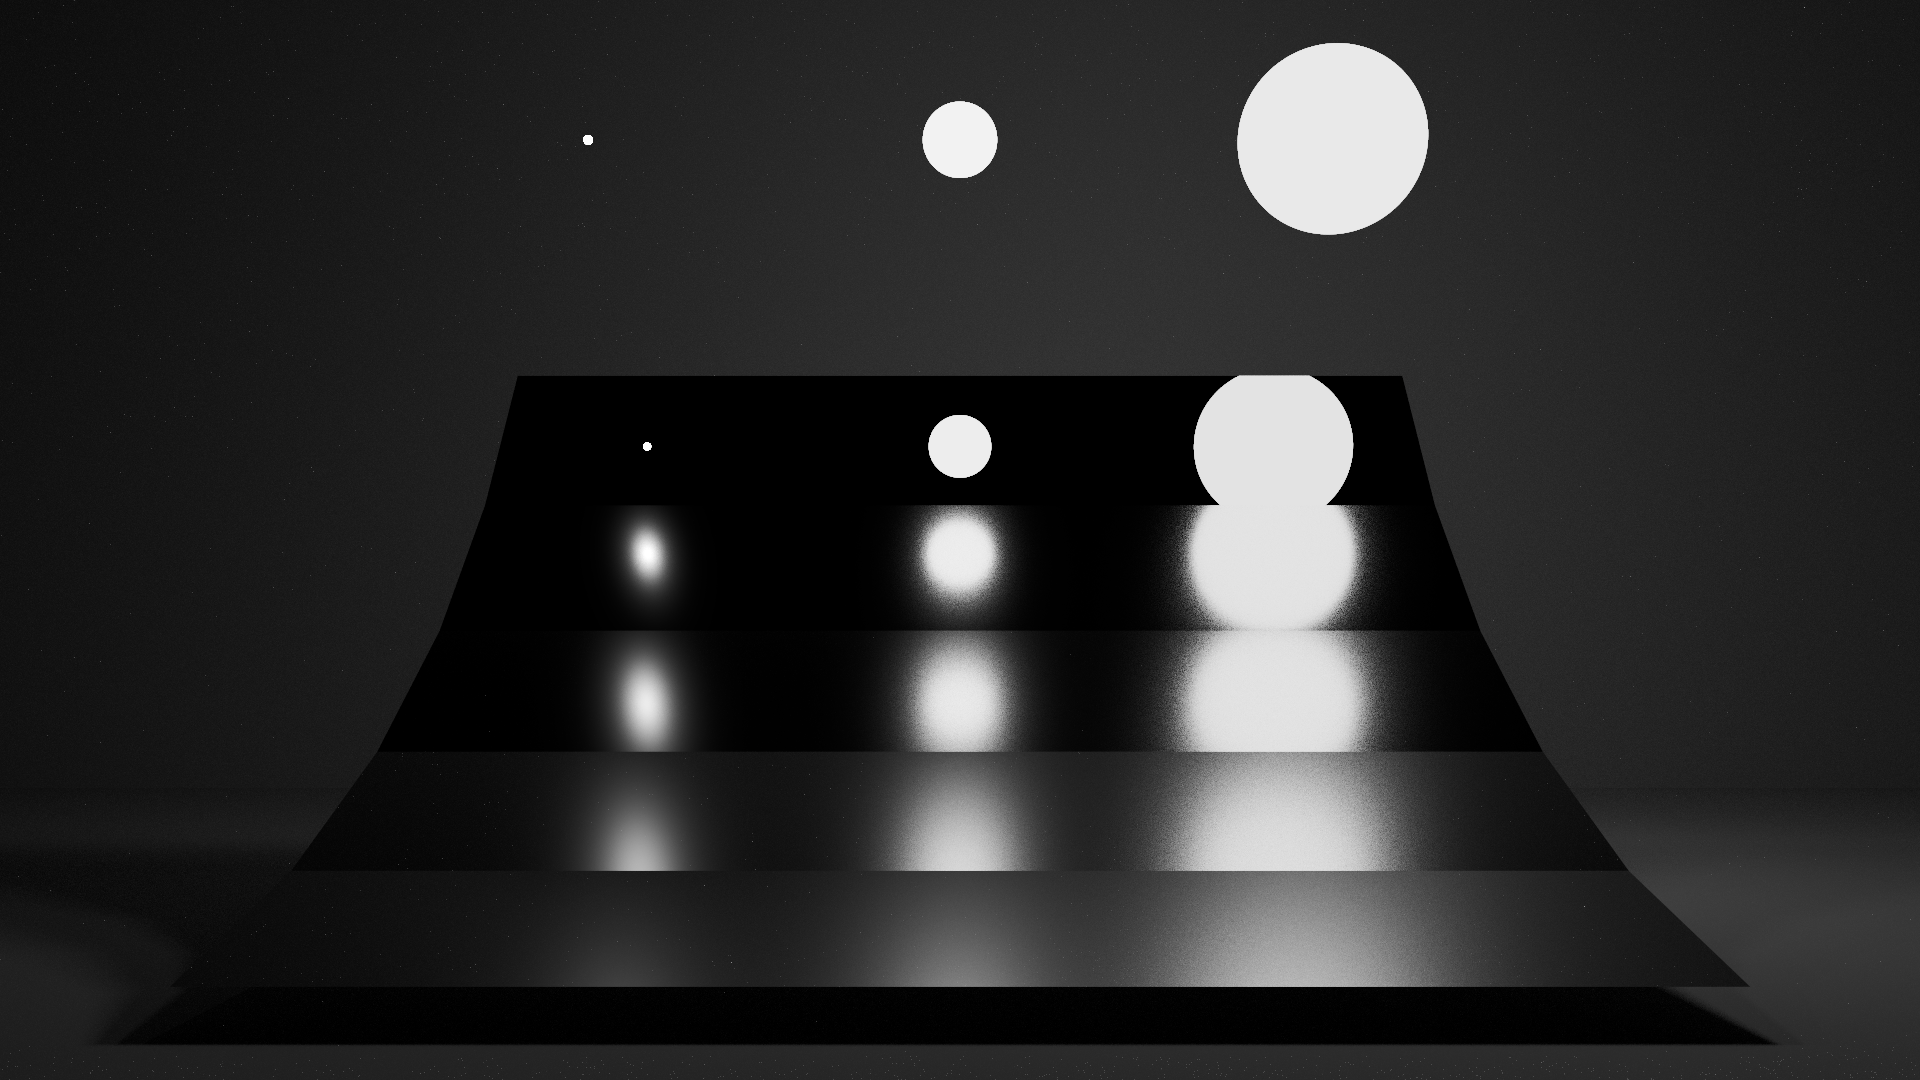
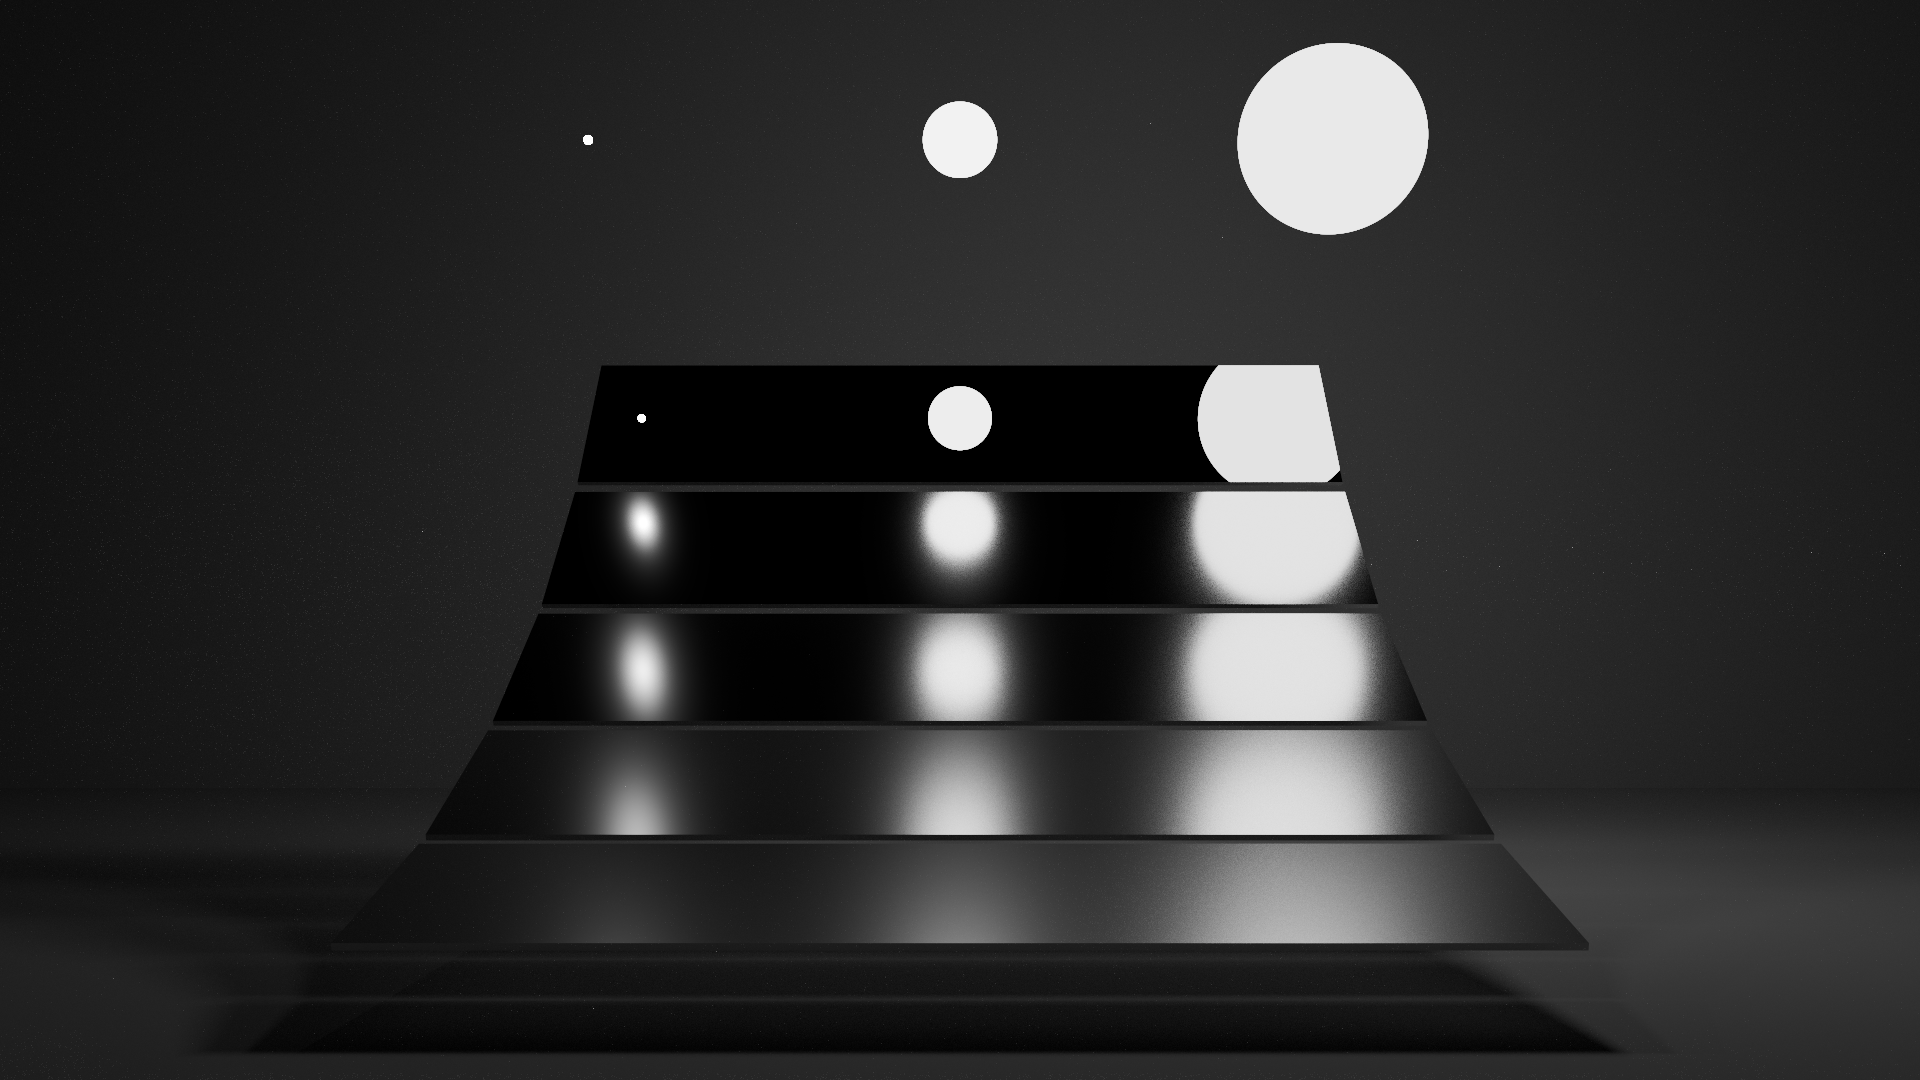
Change planks from Plane to Rectangle to give depth and add new render. Still dealing with energy loss

Changed region(s): [[0.1562, 0.3361, 0.9375, 0.9778], [0.1562, 0.7333, 0.25, 0.7944], [0.0625, 0.9167, 0.125, 0.9778]]

diff --git a/src/scenarios/veach_mis.rs b/src/scenarios/veach_mis.rs
@@ -5,6 +5,7 @@ use camera::Camera;
 use lights::Light;
 use materials::{Diffuse, Emissive, Material, Reflective};
 use plane::{Axis, Bounds2D, Plane};
+use rectangle::Rectangle;
 use scene::Scene;
 use sphere::Sphere;
 use texture::SolidColor;
@@ -54,6 +55,8 @@ pub fn veach_mis_scene(width: usize, height: usize) -> Scene {
     // use a cursor to place planes edge to edge
     let mut cursor = Vec3::new(0.0, 0.15, 2.0);
     let plate_length = 1.0;
+    let plate_gap = 0.10;
+    let visual_length = plate_length - plate_gap;
 
     let plate_configs: [(f32, f32); 5] = [
         (-14.0, 0.08),
@@ -75,8 +78,9 @@ pub fn veach_mis_scene(width: usize, height: usize) -> Scene {
 
         let mat_id = mat!(materials, Reflective::new(silver, fuzz));
         let rot = Vec3::new(tilt_deg, 0.0, 0.0);
-        let base = Plane::new(Axis::XZ, Bounds2D::new(-2.5..2.5, -0.5..0.5), 0.0, mat_id)
-            .into_geometry();
+        let base = Rectangle::new(Vec3::new(-2.0, 0.1, -visual_length / 2.0),
+            Vec3::new(2.0, 0.125, visual_length / 2.0), mat_id)
+            .into();
 
         world.add(TransformedMesh::new(center_pos, rot, 1.0, base).into());
 
@@ -108,7 +112,7 @@ pub fn veach_mis_scene(width: usize, height: usize) -> Scene {
         ).into());
     }
 
-    let fill_intensity = 0.005; 
+    let fill_intensity = 0.005;
     let fill_mat = mat!(materials, Emissive::new(SolidColor::new(fill_intensity, fill_intensity, fill_intensity).into()));
     let fill_color = Vec3::splat(fill_intensity);
 
